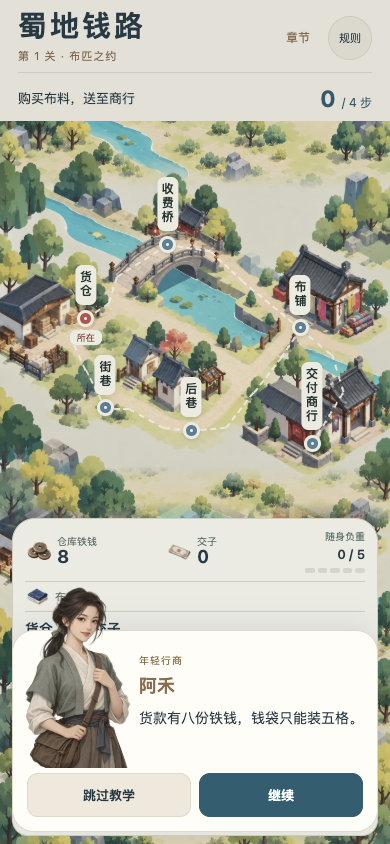
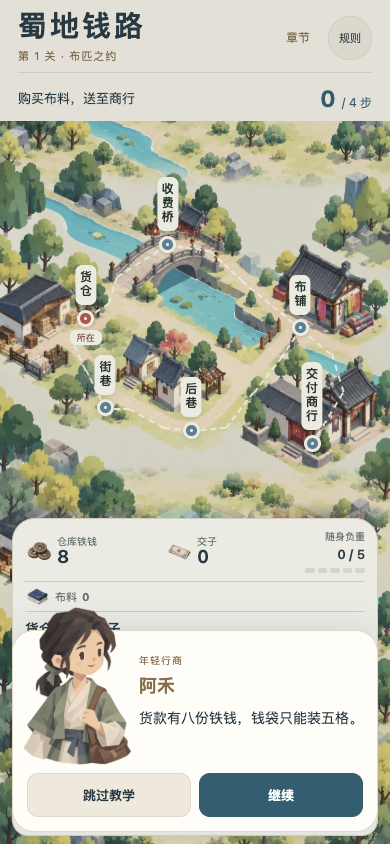
Replace semi-realistic portraits with map-matched cartoon characters

Changed region(s): [[0.0615, 0.6777, 0.3385, 0.9242]]

diff --git a/docs/art-prompts.md b/docs/art-prompts.md
@@ -71,7 +71,7 @@ Single small tree sprite for a polished isometric miniature-town game. Full tree
 # 角色生成补充
 
 
-## 0.4.1 角色与叙事界面（2026-10-16）
+## 0.4.1 角色与叙事界面（2026-10-16，已被否定并替换）
 
 使用内置 image_gen，逐角色生成透明位图；没有调用外部 API 或使用 SVG 头像。以下为实际提示词。生成结果以原始 RGBA PNG 保存，未做二次图像编辑。
 
@@ -103,4 +103,33 @@ Middle-aged Chinese male shopkeeper Luo, broad calm face, tidy short mustache, h
 
 ```text
 Lean Chinese male merchant Xu aged about forty, clean-shaven angular face, hair tied under a simple slate cloth cap, muted dark teal plain robe with ivory collar, holds a few blank beige paper notes in one hand, attentive thoughtful expression, approachable not villainous.
+```
+
+
+## 0.4.2 块面卡通人物（当前版本）
+
+内置 image_gen 生成，transparent_background=true。第一张以 approved-game-ui.png 为风格参考；另外两张同时参考该地图和新阿禾，保持一致造型。原始PNG直接替换运行资源，不进行二次绘图。
+
+阿禾：`miniapp/assets/characters/ahe.png`
+
+```text
+Use case: stylized-concept. Create a GAME CHARACTER SPRITE, NOT a realistic person or portrait. Reference image is ONLY the game's existing map art style: match its simple geometric painted shapes, toy-like miniature scale, flat matte colors and softly faceted shading. Subject: Ahe, a young Chinese woman traveling merchant in Song-inspired everyday clothing, sage-green short jacket, ivory shirt, simple brown shoulder bag, dark hair tied into a practical low ponytail. Waist-up, entire head and shoulders visible, facing slightly right, one hand on bag strap. CLEARLY STYLIZED CARTOON: slightly enlarged rounded head, very simple small dark dot eyes, short curved brows, tiny wedge nose, small smiling mouth; flat skin color with just ONE soft shadow shape; hair built from 5-8 large solid shapes; clothing folds built from a handful of broad polygons. Designed to read at 100 pixels tall. Gently friendly, capable, ordinary merchant. Matte restrained low-saturation sage, blue-gray, walnut and ivory palette matching reference. Clean digital game illustration, 2D cutout with slight 2.5D volume, minimal internal lines. NO realistic anatomy shading, NO photographic facial features, NO realistic eye irises or eyelashes, NO individual hair strands, NO pores, NO cloth texture, NO semi-realism, NO oil painting, NO anime beauty portrait, NO cinematic lighting, NO glow, NO thick black outlines. Isolated on genuine transparent background, no scenery, no writing, no border. Portrait 2:3 composition.
+```
+
+掌柜共用提示词：
+
+```text
+Create one transparent waist-up GAME CHARACTER SPRITE. Image 1 is the approved map STYLE reference, Image 2 is the NEW CARTOON CHARACTER STYLE reference: precisely match image 2's flat geometric painted shapes, large simplified head, dark oval eyes with no detailed iris, wedge nose, simple curved mouth, broad polygonal hair and cloth shadows. Keep mature age through face shape and costume, not realistic wrinkles. No photographic or semi-realistic rendering, no skin texture, no hair strands, no cloth grain, no anime eyes, no thick black outline. Low saturation, matte soft 2.5D facets, visually belongs in this miniature board game. Full head, shoulders and hands visible; simple 2:3 portrait composition, facing slightly right. Genuine transparent background, no scenery, text, labels or frame.
+```
+
+`miniapp/assets/characters/luo.png`
+
+```text
+Luo, a middle-aged Chinese shopkeeper with a broad rounded face, small tidy mustache, simple dark gray cloth cap, warm muted brown Song-inspired everyday robe with slate trim. Calm friendly smile, holds a plain tan ledger in both hands. Cartoon like image2, NOT a portrait of a real man.
+```
+
+`miniapp/assets/characters/xu.png`
+
+```text
+Xu, a lean adult Chinese merchant about forty, longer slightly angular cartoon face, clean-shaven, simple blue-gray cloth cap, muted dark teal Song-inspired everyday robe with ivory collar. Holds two plain beige paper notes, attentive and thoughtful but friendly expression. Cartoon like image2, NOT a portrait of a real man.
 ```

diff --git a/README.md b/README.md
@@ -1,6 +1,6 @@
 # 蜀地钱路 · 六关可玩原型
 
-按《完整游戏策划文档 V2.0》实现，程序版本 **0.4.1**。手机竖屏固定屏，纯 JavaScript 规则、原生小红书页面和浏览器入口共用逻辑。仅保留本地试玩和私有 GitHub，不部署在线站点。
+按《完整游戏策划文档 V2.0》实现，程序版本 **0.4.2**。手机竖屏固定屏，纯 JavaScript 规则、原生小红书页面和浏览器入口共用逻辑。仅保留本地试玩和私有 GitHub，不部署在线站点。
 
 ## 在 VS Code 运行
 
@@ -26,7 +26,7 @@ npm start
 
 首页显示最近章节、当前委托和通关进度；章节页采用六张场景卡。每关开场包含短叙事、角色与场景构图、委托卡和开始/跳过入口。常规教学采用底部角色对白，剧情重播采用半屏卡；结算增加角色回应。
 
-阿禾、罗掌柜、许掌柜为当前生成半身资源，尚非最终美术定稿。剧情与素材绑定集中在 `miniapp/ui/narrative.js`，布局在 `miniapp/styles/narrative.css`；核心规则与六关数值没有修改。
+阿禾、罗掌柜、许掌柜已替换为与微缩地图配套的块面卡通半身资源（不采用真人或半写实风格），尚非最终美术定稿。剧情与素材绑定集中在 `miniapp/ui/narrative.js`，布局在 `miniapp/styles/narrative.css`；核心规则与六关数值没有修改。
 
 ## 已实现
 
@@ -50,7 +50,7 @@ npm start
 3. 入口 `app.json` → `pages/index/index`；页面使用 `.js/.json/.xhsml/.css`，存储使用 `xhs.getStorageSync/setStorageSync` 官方示例签名。
 4. 工具中编译并进行设备预览，重点检查模板表达式、CSS 变量/遮罩/clip-path、图片布局、安全区和本地存储。
 
-**当前没有 AppID、官方工具编译或真机结果。** Native adapter 测试是 Node 中的 Page/setData 模拟，不是平台测试。素材尚未做发布级优化，完整 `miniapp/assets` 约 33 MiB（含前期未使用生成素材）；平台包体、类目和准入条件仍待确认，不能据此直接发布。
+**当前没有 AppID、官方工具编译或真机结果。** Native adapter 测试是 Node 中的 Page/setData 模拟，不是平台测试。素材尚未做发布级优化，完整 `miniapp/assets` 约 30 MiB（含前期未使用生成素材）；平台包体、类目和准入条件仍待确认，不能据此直接发布。
 
 ## 测试
 

diff --git a/docs/asset-manifest.md b/docs/asset-manifest.md
@@ -45,6 +45,10 @@
 |罗掌柜|miniapp/assets/characters/luo.png|1024×1536|第一/二/四/六关委托及结尾|RGBA|
 |许掌柜|miniapp/assets/characters/xu.png|1024×1536|第五关开场、换票/兑付剧情、第三/五关结尾|RGBA|
 
-三图由内置 imagegen 生成，共约6.4 MiB，使用灰绿、褐、蓝灰服饰和日常商人造型。当前人物偏半写实，地图更偏块面微缩，正式稿需进一步统一笔触。正式素材仍需阿禾4、罗掌柜3、许掌柜4表情，并提供源文件和使用授权。保持2:3半身比例、头顶和两肩留边，透明背景，建议发布版按显示密度提供512×768及必要高分辨率版。角色文件路径集中在 `miniapp/ui/narrative.js` 的 characters 配置中，替换不影响规则。
+三图由内置 imagegen 生成，共约4 MiB，使用灰绿、褐、蓝灰服饰和日常商人造型。0.4.1半写实版本已被用户否定；0.4.2按地图与新阿禾风格参考重生三张块面卡通人物，同路径替换。正式素材仍需阿禾4、罗掌柜3、许掌柜4表情，并提供源文件和使用授权。保持2:3半身比例、头顶和两肩留边，透明背景，建议发布版按显示密度提供512×768及必要高分辨率版。角色文件路径集中在 `miniapp/ui/narrative.js` 的 characters 配置中，替换不影响规则。
 
 首页、开场、章节缩略图复用现有场景图集的局部构图，不是新增关卡地图；不包含烘焙文字和按钮。后续可按章节替换独立场景缩略图。没有新增正式生产资源。包体优化与官方平台验收仍未进行。
+
+### 0.4.2 角色替换记录
+
+阿禾、罗掌柜、许掌柜三张PNG同路径替换为块面卡通版本；旧的半写实版本仅存在Git历史，不在当前运行素材中混用。新增稿以地图参考和新阿禾为统一风格来源，提示词见 `docs/art-prompts.md`。仍是生成资源，不等于用户确认的正式角色稿。

diff --git a/docs/visual-spec.md b/docs/visual-spec.md
@@ -83,4 +83,10 @@
 
 新布局参数统一在 `miniapp/styles/narrative.css`：圆角24/18/17px、主间距14px、正文14px、开场标题34px、人物饱和度0.76；沿用 tokens.css 的米白、灰蓝和暖棕。主按钮50px，次级触控44px。三种目标手机尺寸保持单屏；不添加常驻免责声明、不添加额外滚动区。
 
-共享展示装饰器 `miniapp/ui/narrative.js` 仅接收视图并附加角色/文案/缩略图数据，不调用规则状态变更。浏览器与原生页面使用同一份叙事配置。未确认角色为生成临时生产资源，不等于最终角色设计；差分和表演留待P2。
+共享展示装饰器 `miniapp/ui/narrative.js` 仅接收视图并附加角色/文案/缩略图数据，不调用规则状态变更。浏览器与原生页面使用同一份叙事配置。角色为生成临时生产资源，不等于最终角色设计；差分和表演留待P2。
+
+## 0.4.2 人物风格修正（覆盖先前人物方向）
+
+用户明确否定0.4.1半写实人物。当前三位角色改用与微缩地图相配的二维块面卡通：略放大的简化头部，深色椭圆眼睛、楔形鼻、小嘴；头发和衣褶使用少量大色块，只有轻微2.5D体积感。保持灰绿、蓝灰和暖棕。禁止真人肖像、半写实皮肤与毛发细节、摄影光影、油画质感、厚黑描边和动漫偶像式五官。
+
+角色资源仍为独立透明PNG，沿用同一接入路径。首页、开场、底部对白、半屏剧情与结尾全部同步，不保留旧人物混用。正式角色定稿仍需验收，不因替换画风改变UI或规则。

diff --git a/outputs/叙事界面整改交付说明.md b/outputs/叙事界面整改交付说明.md
@@ -1,4 +1,4 @@
-# 《蜀地钱路》0.4.1 · 叙事界面整改
+# 《蜀地钱路》0.4.2 · 叙事界面整改
 
 本次完成首页、章节入口、六关开场、角色对白和结尾回应；核心规则、关卡配置、价格、负重、通关条件均未更改。
 
@@ -28,7 +28,7 @@
 
 ## 美术
 
-内置 imagegen 生成并接入三张透明半身图：
+内置 imagegen 重新生成并接入三张块面卡通透明半身图，替换此前不适合地图的半写实版本：
 
 - `miniapp/assets/characters/ahe.png`
 - `miniapp/assets/characters/luo.png`
@@ -36,7 +36,7 @@
 
 均为1024×1536 RGBA，属于当前生成资源，未当作正式定稿。提示词在 `docs/art-prompts.md`；规格与替换约定在 `docs/asset-manifest.md`、`docs/visual-spec.md`。可以通过角色配置替换，不影响玩法。
 
-与最终美术的差距：人物偏半写实，地图偏微缩块面；章节缩略图目前复用街市场景局部；尚无表情差分。P2仍需正式角色稿、表情差分与最终笔触统一。
+与最终美术的差距：人物已改为简化五官和块面造型，待用户验收；章节缩略图目前复用街市场景局部；尚无表情差分。P2仍需正式角色稿、表情差分与最终笔触统一。
 
 ## 验证
 

diff --git a/docs/test-report.md b/docs/test-report.md
@@ -63,3 +63,7 @@ node scripts/build-web.js
 规则引擎 `miniapp/core/engine.js`、关卡配置 `level.js`、控制器 `controller.js` 和规则呈现 `presenter.js` 未改动。六关限定组合数仍为10、5、4、4、3、6。
 
 仍待平台验收：真实AppID、官方开发者工具编译、真机CSS/图片显示和包体。人物本次新增约6.4MiB，未进行发布包压缩或分包，不声称可直接上线。
+
+## 0.4.2 人物风格替换检查
+
+本轮只替换三张人物PNG及文档/版本号，不修改UI结构或游戏代码。角色改为与地图配套的块面卡通，旧半写实角色不再使用。实际执行5项叙事单元测试、三种尺寸六章开场/重播浏览器检查和静态构建，全部通过；确认三图均为1024×1536 RGBA透明图。复查首页、罗掌柜开场、阿禾教学与许掌柜对白截图，图片不遮挡文字或按钮。人物总资源从约6.4MiB降至约4MiB；平台包体验收仍未执行。

diff --git a/outputs/交付说明.md b/outputs/交付说明.md
@@ -1,6 +1,6 @@
 # 当前交付
 
-最新版本：0.4.1，完成首页、章节开幕和角色叙事整改。
+最新版本：0.4.2，完成首页、章节开幕和角色叙事整改；人物已替换为块面卡通，移除半写实画风。
 
 [查看叙事界面整改说明](叙事界面整改交付说明.md)
 
